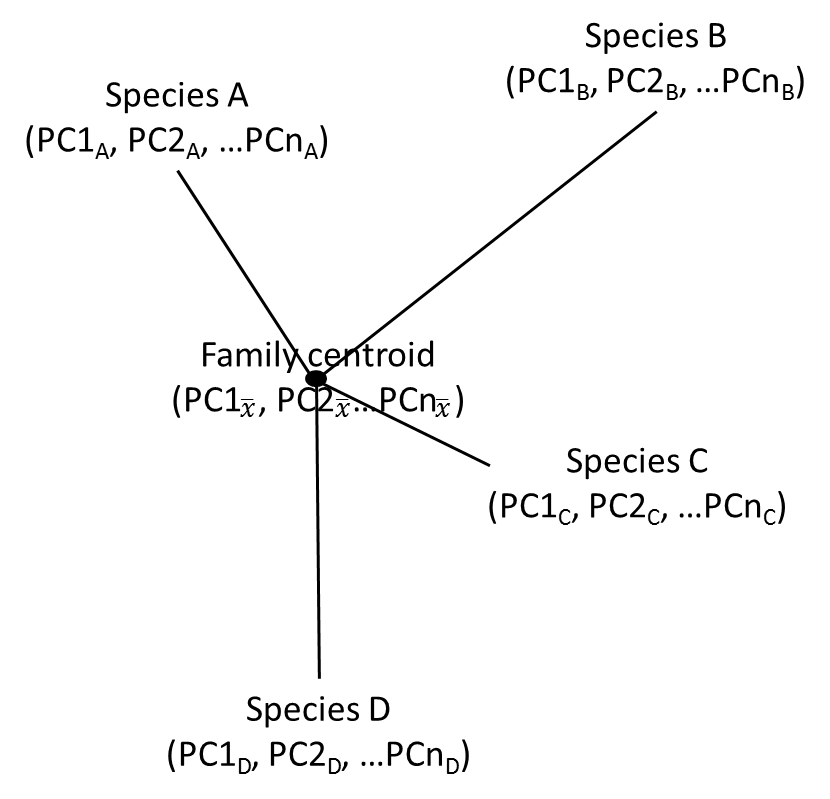
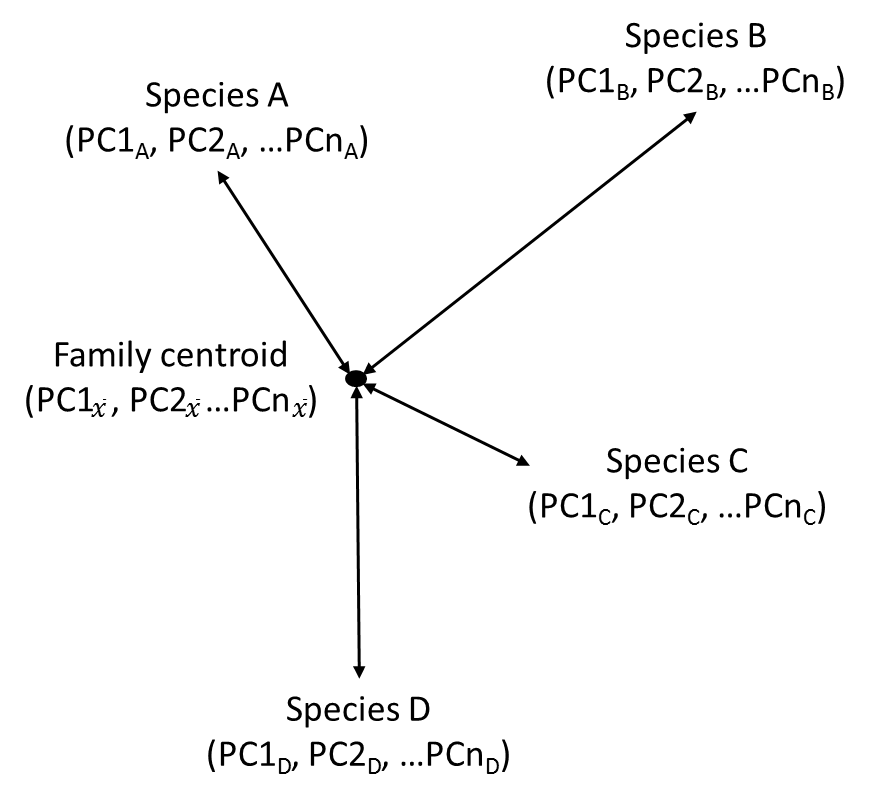
Edits to methods tables

diff --git a/chap_disparity.tex b/chap_disparity.tex
@@ -52,12 +52,15 @@
 	\centering
 	\includegraphics [width=0.7\linewidth, height=0.7\textheight, keepaspectratio]{Disparity/writing/figures/Centroids.png}
 	\caption[Calculating diversity as mean Euclidean distance to Family centroid.]
-		{Estimating morphological diversity as the mean Euclidean distance between each species and the Family centroid. Every species has scores on the principal components (PC) axes that account for 95\% of the variation in the principal components analysis. The number of axes (PCn) varied for each analysis but they are the same within a single analysis. PC scores are used to calculate the Euclidean distance from each species to the Family centroid (average PC scores for the entire Family). Morphological diversity of the Family is the average value of these Euclidean distances.}
+		{Estimating morphological diversity as the mean Euclidean distance between each species and the Family centroid. Every species has scores on the principal components (PC) axes that account for 95\% of the variation in the principal components analysis. The number of axes (PCn) varied for each analysis but they are the same within a single analysis. PC scores are used to calculate the Euclidean distance from each species to the Family centroid (average (\begin{math}
+			\bar{x}
+			\end{math}) PC scores for the entire Family). Morphological diversity of the Family is the average value of these Euclidean distances.}
 	\label{fig:centroids}
 	\end{figure}
-% NC: To help with readability I'd move the text on the central family centroid to the left. I'd also add some sort of point (dot or cross) to the ends of the lines. Really the lines are distances so they may better as double headed arrows, or maybe with lines on the ends like error bars? Have a bit of a play around. But definitely move the central text as it's hard to read under the lines.	
+% SF: I moved the text and made the lines into double headed arrows, the error bar-type endings looked messy	
 
 %--------------------------------------
+
 	
 	One possible issue with these analyses is that the two Families have unequal sample sizes: 31 (or a subset of 17) tenrec species compared to just 12 golden mole species. Morphological diversity is usually decoupled from taxonomic diversity \citep[e.g.][]{Ruta2013, Hopkins2013} so larger groups are not necessarily more morphologically diverse. However, comparing morphological diversity in tenrecs to the diversity of a smaller Family could still bias the results. I used pairwise permutation tests to account for this potential issue as follows. 
 
@@ -69,13 +72,11 @@
 
 \section{Results}
 \label{sect:results}
-	%Edited these from the paper comments
-	%Change to using all four PCA plots
 
 	Figure \ref{fig:FourPCA} depicts the morphospaces defined by the first two principal component (PC) axes from my principal components analyses (PCAs) of skull and mandible morphologies. The PCAs are based on the average Procrustes-superimposed shape coordinates for skulls in three views (dorsal, ventral and lateral) and mandibles in lateral view.
 
 %-----------------------------
-% NC: I'd get rid of the silhouette legend at the side. They don't help with interpretation and make the figure feel unbalanced.
+% SF: I took away the silhouette legend
 	
 %PCA figure
 	%From the twofamily_disparity_PCAplots script
@@ -106,13 +107,13 @@
 %SF: Added the degrees of freedom to the t test results
 % NC: Don't put these in brackets, it looks weird. Also can you left align the p values and make them all the same number of figures i.e. either 0.110 and 0.014 OR 0.11 and 0.01. If the latter use < 0.01 for anything smaller. Same goes for SEs. And t values. 
 % NC: Also need a column heading above tenrecs and golden moles to say "morphological diversity"
+
+%SF I fixed the number of figures, removed brackets for df and added the extra column heading
 %------------------------------------
 
 	Secondly, I compared the morphological diversity within each Family. Based on my measures of mean Euclidean distance to the Family's centroid, tenrec skulls are more morphologically diverse than golden mole skulls when they are measured in lateral view but not in dorsal or ventral view (Table \ref{tab:diversity}). In contrast, when I analysed morphological diversity of skulls within the sub-sample of 17 tenrecs (including just five \textit{Microgale} species) compared to the 12 golden mole species, I found that tenrec skulls were significantly more morphologically diverse than golden moles in all analyses (Table \ref{tab:diversity}).
 		
-	The results of my analyses of the mandibles were different to those for the skulls. In the full analysis (31 species of tenrec compared to 12 species of golden mole), I found that golden moles have significantly more diverse mandible shapes than tenrecs but this difference was not significant when I used just 17 tenrec species (Table \ref{tab:diversity}). 
-	%Moved this paragraph up from the discussion
-	I recognised that my landmarks and curves for the mandibles focus particular attention on the ascending ramus (condyloid, condylar and angular processes, Figure \ref{fig:sklat_mands}). Therefore, I  deleted the three semilandmark curves around these structures and repeated my comparison of morphological diversity in the two Families. In this case, I found no significant differences in morphological diversity between the two Families (t-test, t\textsubscript{26.099}=1.709, p=0.099). Therefore, my results seem to indicate that golden moles have greater morphological variation in the posterior structures of their mandibles compared to tenrecs.
+	The results of my analyses of the mandibles were different to those for the skulls. In the full analysis (31 species of tenrec compared to 12 species of golden mole), I found that golden moles have significantly more diverse mandible shapes than tenrecs but this difference was not significant when I used just 17 tenrec species (Table \ref{tab:diversity}). I recognised that my landmarks and curves for the mandibles focus particular attention on the ascending ramus (condyloid, condylar and angular processes, Figure \ref{fig:sklat_mands}). Therefore, I  deleted the three semilandmark curves around these structures and repeated my comparison of morphological diversity in the two Families. In this case, I found no significant differences in morphological diversity between the two Families (t-test, t\textsubscript{26.099}=1.709, p=0.099). Therefore, my results seem to indicate that golden moles have greater morphological variation in the posterior structures of their mandibles compared to tenrecs.
 	
 	The pairwise permutation tests for each analysis confirmed that differences in morphological diversity were not artefacts of differences in sample size (Table \ref{tab:permutations}). I discuss my results further in Chapter \textbf{\ref{chap:discussion}}.
 
@@ -125,8 +126,9 @@
 	\label{tab:permutations}  
 \end{table}
 
-% NC: Get rid of the bold here since everything is significant!
-% NC: Also need a column heading above measured and permuted values to say "morphological diversity
+
+
+%SF: I got rid of the bold and added the extra column heading, I still need to fix the positioning
 %----------------------------------------------------
 % NC: The positioning of the tables is a bit weird. Perhaps play around with the float options once this is all ready so that you can try and get this looking a bit neater.
 	

diff --git a/Disparity/writing/tables/cent.dist.diversity.tex b/Disparity/writing/tables/cent.dist.diversity.tex
@@ -9,31 +9,33 @@
 \resizebox{\columnwidth}{!}{
 %Scales down the table to fit within the column width
 	% If this is too small then I'll probably need to break the table into two
-\begin{tabular}{c l c c c  c}		
+\begin{tabular}{c l c c c c}		
 \hline
-Tenrec & Analysis & Tenrecs  & Golden moles & t\textsubscript{(df)} & p \\
+Tenrecs& Analysis & \multicolumn{2}{c}{Morphological diversity} & t\textsubscript{df} & p value\\
+%-----------------------------------------------
+ &  & Tenrecs  & Golden moles &  &  \\
 %--------------------------------
-species & & (mean $\pm$ s.e) & (mean $\pm$ s.e) & &\\
+ & & (mean $\pm$ s.e) & (mean $\pm$ s.e) & &\\
 \hline
 %\multicolumn{1}{l}
 %---------------------------
- 31 & Skulls dorsal & \multicolumn{1}{l}{0.036 $\pm$ 0.0029} & 0.029 $\pm$ 0.0032 & -1.63\textsubscript{(29.88)}& 0.11 \\
+ 31 & Skulls dorsal & \multicolumn{1}{l}{0.036 $\pm$ 0.0029} & 0.029 $\pm$ 0.0032 & -1.63\textsubscript{29.88}& 0.11 \\
 %--------------------------------------
- & Skulls ventral & \multicolumn{1}{l}{0.048 $\pm$0.0034} & 0.044 $\pm$ 0.0041 & -0.676\textsubscript{(26.99)} & 0.51\\
+ & Skulls ventral & \multicolumn{1}{l}{0.048 $\pm$ 0.0034} & 0.044 $\pm$ 0.0041 & -0.68\textsubscript{26.99} & 0.51\\
 %-----------------------------------------
- & Skulls lateral & 0.044 $\pm$ 0.0041 & 0.032 $\pm$ 0.0037 & -2.16\textsubscript{(35.03)} & \textbf{0.04}\\
+ & Skulls lateral & 0.044 $\pm$ 0.0041 & 0.032 $\pm$ 0.0037 & -2.16\textsubscript{35.03} & \textbf{0.04}\\
 %----------------------------------------
- & Mandibles & 0.049 $\pm$ 0.0044 & 0.067 $\pm$ 0.0054 & 2.62\textsubscript{(25.85)} & \textbf{0.014}\\
+ & Mandibles & 0.049 $\pm$ 0.0044 & 0.067 $\pm$ 0.0054 & 2.62\textsubscript{25.85} & \textbf{0.01}\\
 %--------------------------
 \hline
 %-----------------------------------------
-17 & Skulls dorsal & 0.044 $\pm$ 0.0025 & \multicolumn{1}{l}{0.029 $\pm$ 0.003} & -3.62\textsubscript{(22.75)} & \textbf{0.001}\\
+17 & Skulls dorsal & 0.044 $\pm$ 0.0025 & \multicolumn{1}{l}{0.029 $\pm$ 0.0032} & -3.62\textsubscript{22.75} & \textbf{<0.01}\\
 %---------------------------------
- & Skulls ventral & \multicolumn{1}{l}{0.054 $\pm$ 0.004} & \multicolumn{1}{l}{0.042 $\pm$ 0.004} & -2.23\textsubscript{(25.46)} & \textbf{0.04}\\
+ & Skulls ventral & \multicolumn{1}{l}{0.054 $\pm$ 0.0039} & \multicolumn{1}{l}{0.042 $\pm$ 0.0041} & -2.23\textsubscript{25.46} & \textbf{0.04}\\
 %-------------------------------------
- & Skulls lateral &  \multicolumn{1}{l}{0.054 $\pm$ 0.005} & 0.031 $\pm$ 0.0037 & -3.47\textsubscript{(26.31)} & \textbf{0.002} \\
+ & Skulls lateral &  \multicolumn{1}{l}{0.054 $\pm$ 0.0053} & 0.031 $\pm$ 0.0037 & -3.47\textsubscript{26.31} & \textbf{<0.01} \\
 %--------------------
- & Mandibles & 0.055 $\pm$ 0.0049 & \multicolumn{1}{l}{0.062 $\pm$ 0.005} & 1.003\textsubscript{(25.88)} & 0.325 \\
+ & Mandibles & 0.055 $\pm$ 0.0049 & \multicolumn{1}{l}{0.062 $\pm$ 0.0050} & 1.00\textsubscript{25.88} & 0.33 \\
 %--------------------
 
 \hline

diff --git a/Disparity/writing/tables/perm.res.combined.tex b/Disparity/writing/tables/perm.res.combined.tex
@@ -4,27 +4,31 @@
 \begin{tabular}[t]{l l c c c c c c c}		
 \hline
 %------------------------------------------
-Tenrecs & Analysis & \multicolumn{3}{c}{Measured values}& \multicolumn{2}{c}{Permuted values} & p value \\
+Tenrecs& Analysis & \multicolumn{5}{c}{Morphological diversity} & p value\\
+%\hline
+%-------------------------------------------
+ &  & \multicolumn{3}{c}{Measured values}& \multicolumn{2}{c}{Permuted values} &  \\
+\hline
 & & Tenrecs & Golden moles & Difference & min. & max. & \\
 \hline
 %--------------------------------------------------------
-31 & Dorsal & 0.036 & 0.029 & 0.007 & -0.011 & 0.0098 &  \textbf{0.013} \\
+31 & Dorsal & 0.036 & 0.029 & 0.007 & -0.011 & 0.0098 &  0.013 \\
 %--------------------------------------------------------
-& Ventral &  0.048 & 0.044 & 0.0036 & -0.014 & 0.013 &  \textbf{0.023}\\
+& Ventral &  0.048 & 0.044 & 0.0036 & -0.014 & 0.013 &  0.023\\
 %--------------------------------------------------------
-& Lateral & 0.044 & 0.032 & 0.012 & -0.012 & 0.011 & \textbf{<0.001} \\
+& Lateral & 0.044 & 0.032 & 0.012 & -0.012 & 0.011 & <0.001 \\
 %--------------------------------------------------------
-& Mandibles & 0.049 & 0.067 & 0.018 & -0.008 & 0.009  & \textbf{<0.001} \\
+& Mandibles & 0.049 & 0.067 & 0.018 & -0.008 & 0.009  & <0.001 \\
 %-----------------------------
 \hline
 %--------------------------------------------------------
-17 & Dorsal & 0.044 & 0.029 & 0.015 & -0.011 & 0.014 &  \textbf{<0.001} \\
+17 & Dorsal & 0.044 & 0.029 & 0.015 & -0.011 & 0.014 &  <0.001 \\
 %--------------------------------------------------------
-& Ventral &  0.054 & 0.042 & 0.013 & -0.017 & 0.019 &  \textbf{0.023} \\
+& Ventral &  0.054 & 0.042 & 0.013 & -0.017 & 0.019 &  0.023 \\
 %--------------------------------------------------------
-& Lateral & 0.054 & 0.0313 & 0.022 & -0.018 & 0.0186 & \textbf{<0.001} \\
+& Lateral & 0.054 & 0.0313 & 0.022 & -0.018 & 0.0186 & <0.001 \\
 %--------------------------------------------------------
-& Mandibles & 0.055 & 0.0623 & 0.007 & -0.012 & 0.011 & \textbf{0.038}\\
+& Mandibles & 0.055 & 0.0623 & 0.007 & -0.012 & 0.011 & 0.038\\
 %-----------------------------
 \hline
 \end{tabular}
